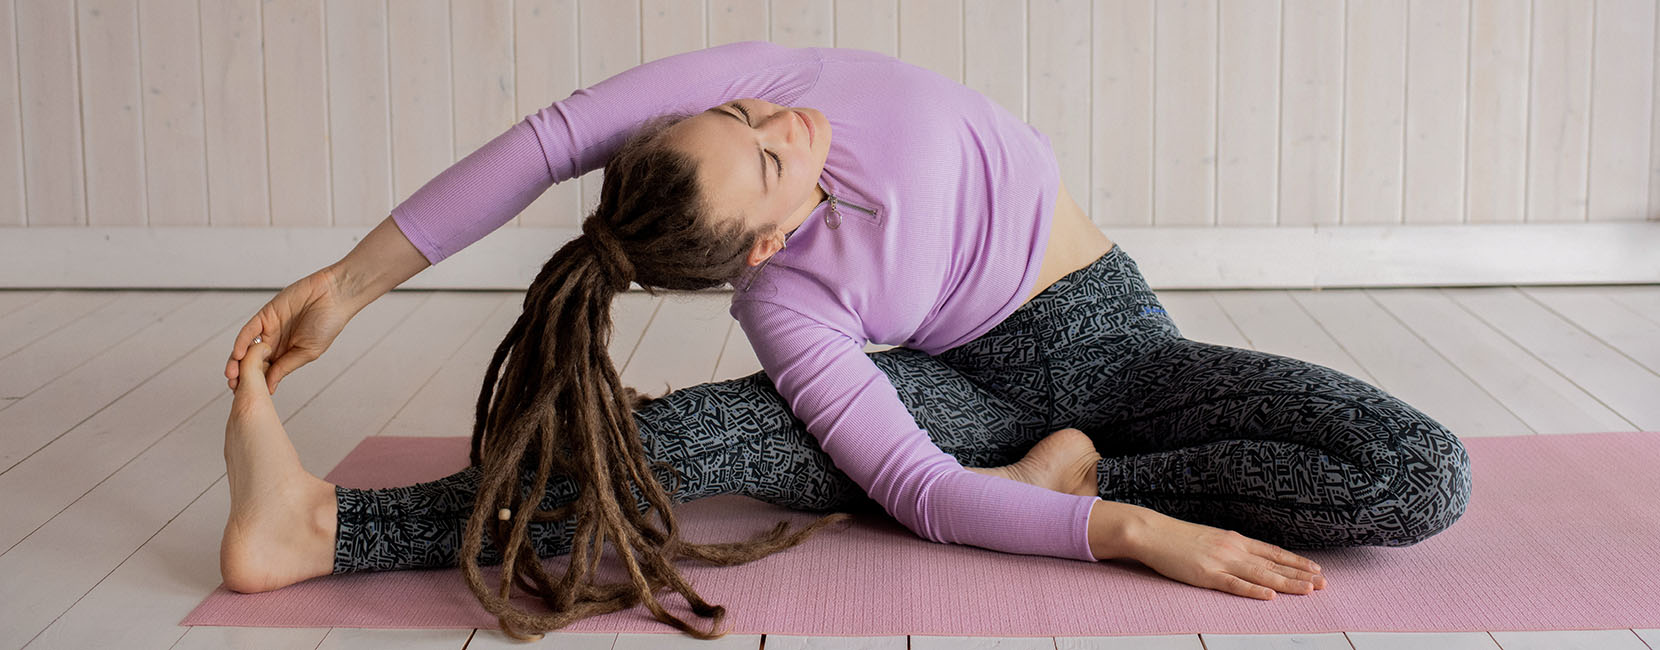
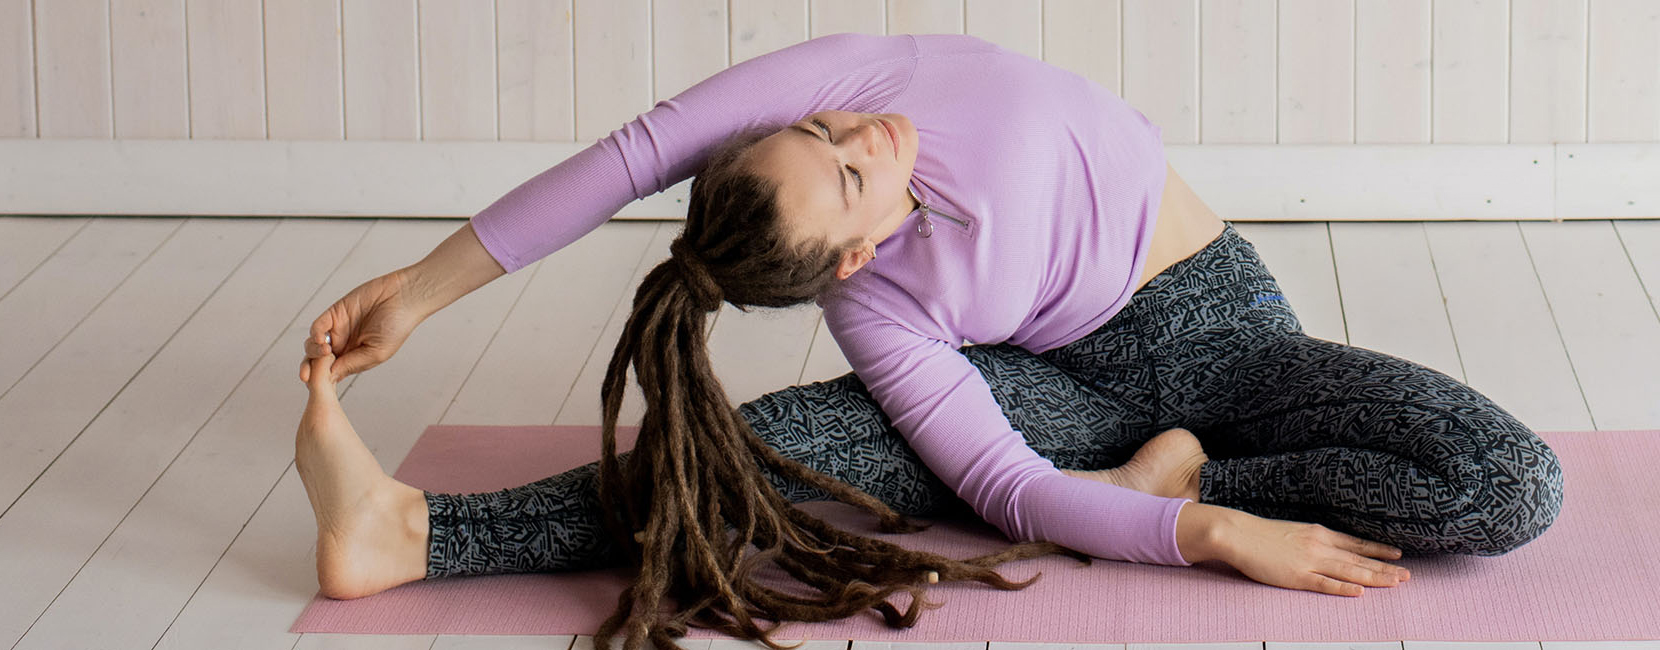
Change hero image and make adjustments for smaller screens, add Our Place page and menu item

diff --git a/our-place.html b/our-place.html
@@ -1,0 +1,74 @@
+<!DOCTYPE html>
+<html lang="en">
+<head>
+    <meta charset="UTF-8">
+    <meta http-equiv="X-UA-Compatible" content="IE=edge">
+    <meta name="viewport" content="width=device-width, initial-scale=1.0">
+    <meta name="description" content="Yoga, pilates and meditation in Helsingborg, Sweden">
+    <meta name="keywords" content="yoga and more, yoga, pilates, meditation, helsingborg, sweden">
+    
+    <link rel="stylesheet" href="assets/css/style.css">
+
+    <title>Yoga & More</title>
+</head>
+<body>
+    <header id="home">
+        <nav>
+            <a href="#home">
+                <h1 id="logo">Yoga & More</h1>
+            </a>
+            <ul id="menu">
+                <li>
+                    <a href="index.html">Home</a>
+                </li>
+                <li>
+                    <a href="#classes-section">Classes</a>
+                </li>
+                <li>
+                    <a href="#about-section">About Us</a>
+                </li>
+                <li>
+                    <a href="our-place.html" class="menu-active">Our Place</a>
+                </li>
+                <li>
+                    <a href="#contact-section">Contact</a>
+                </li>
+            </ul>
+        </nav>
+    </header>
+    <section class="our-place-section">
+        <div>
+            <h2 class="general-section-heading">Yoga at Our Place</h2>
+        </div>
+    </section>
+    <footer>
+        <div id="footer">
+            <div id="footer-copyright">
+                <p>
+                    &copy; 2021 Yoga & More / Policy / Terms
+                </p>
+            </div>
+            <div id="footer-social">
+                <ul class="footer-social"> 
+                    <li>
+                        <a href="https://facebook.com" target="_blank" rel="noopener" aria-label="Visit us on Facebook (opens in new tab)">
+                            <i class="fab fa-facebook"></i></a>
+                    </li>
+                    <li>
+                        <a href="https://instagram.com" target="_blank" rel="noopener" aria-label="Visit us on Instagram (opens in new tab)">
+                            <i class="fab fa-instagram"></i></a>
+                    </li>
+                    <li>
+                        <a href="https://twitter.com" target="_blank" rel="noopener" aria-label="Visit us on Twitter (opens in new tab)">
+                    <i class="fab fa-twitter"></i></a>
+                    </li>
+                </ul>
+            </div>
+        </div>
+    </footer>
+
+    <!--font awesome script-->
+    <script src="https://kit.fontawesome.com/5a6bc3a920.js" crossorigin="anonymous"></script>
+
+</body>
+</html>

diff --git a/assets/css/style.css b/assets/css/style.css
@@ -55,6 +55,10 @@ h2 {
     color: #7f7b82;
 }
 
+.menu-active {
+    color: #7f7b82;
+}
+
 #logo, #menu {
     line-height: 65px;
 }
@@ -168,7 +172,6 @@ h2 {
     background: url('../images/classes-image.jpg') no-repeat center center;
     background-attachment: fixed;
     background-size: cover;
-
 }
 
 /* about us section */
@@ -290,7 +293,7 @@ h2 {
     padding-top: 100px;
 }
 
-.contact-info h3{
+.contact-info h3 {
     line-height: 0;
     padding-top: 2em;
 }
@@ -373,14 +376,18 @@ h2 {
         border: 0;
     }
 }
+
 /* for screen sizes 770px and down */
 
 @media screen and (max-width: 770px) {
-
+    #hero {
+        height: 650px;
+        width: 100%;
+        background: url('../images/hero-image-small.jpg') no-repeat center center;
+    }
 }
 
-
-/* for screen sizes 570px and down*/
+/* for screen sizes 570px and down */
 
 @media screen and (max-width: 570px) {
     #menu {
@@ -389,16 +396,6 @@ h2 {
         line-height: 30px;
         margin-bottom: 25px;
         margin-left: 35px;
-    }
-
-    #hero {
-        height: 650px;
-        width: 100%;
-        background: url('../images/hero-image-small.jpg') no-repeat center center;
-        
-        animation-name: zoom;
-        animation-duration: 6s;
-        animation-fill-mode: backwards;
     }
 
     #welcome-text {

diff --git a/index.html b/index.html
@@ -19,13 +19,16 @@
             </a>
             <ul id="menu">
                 <li>
-                    <a href="#home">Home</a>
+                    <a href="#home" class:="menu-active">Home</a>
                 </li>
                 <li>
                     <a href="#classes-section">Classes</a>
                 </li>
                 <li>
                     <a href="#about-section">About Us</a>
+                </li>
+                <li>
+                    <a href="our-place.html">Our Place</a>
                 </li>
                 <li>
                     <a href="#contact-section">Contact</a>
